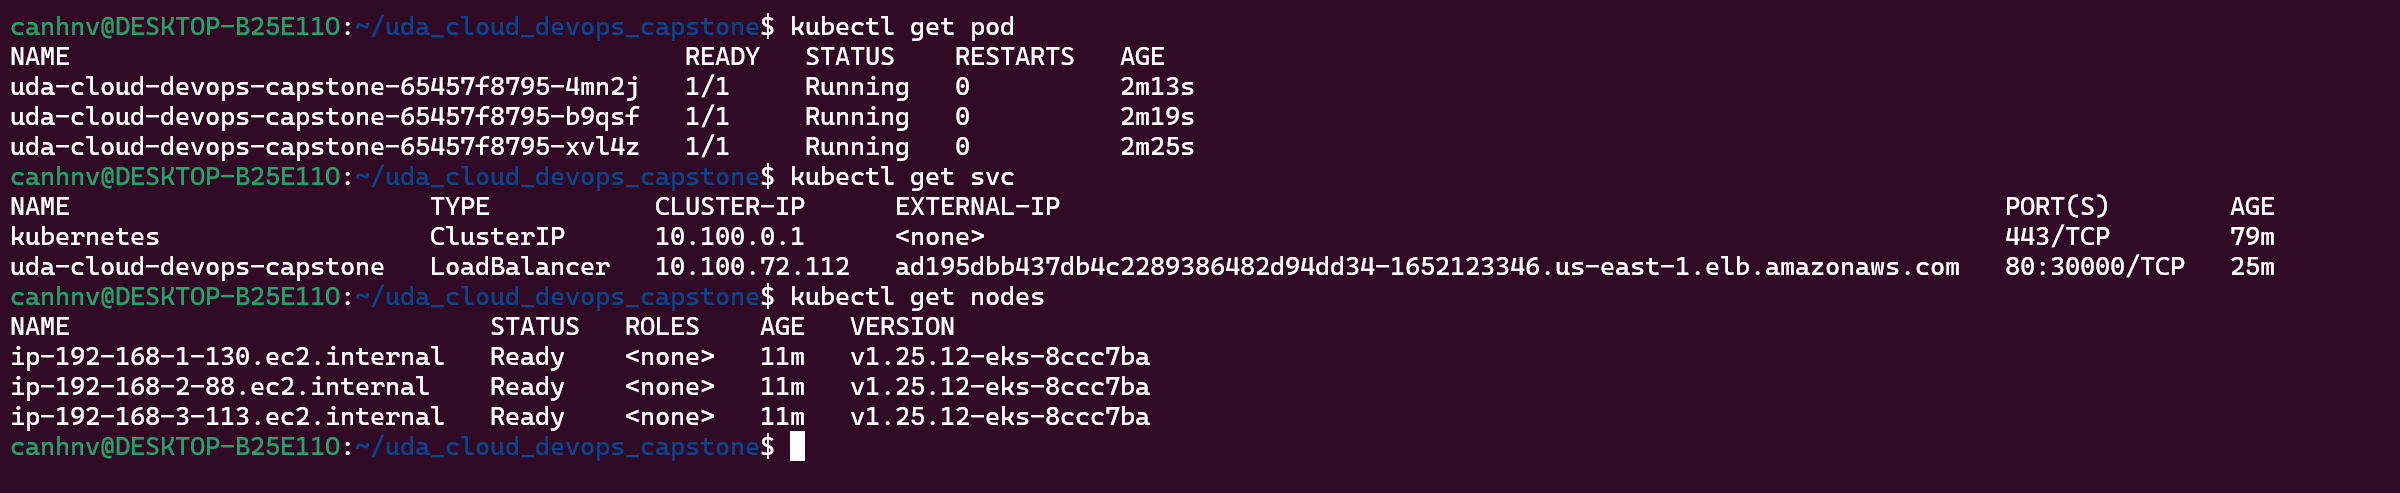
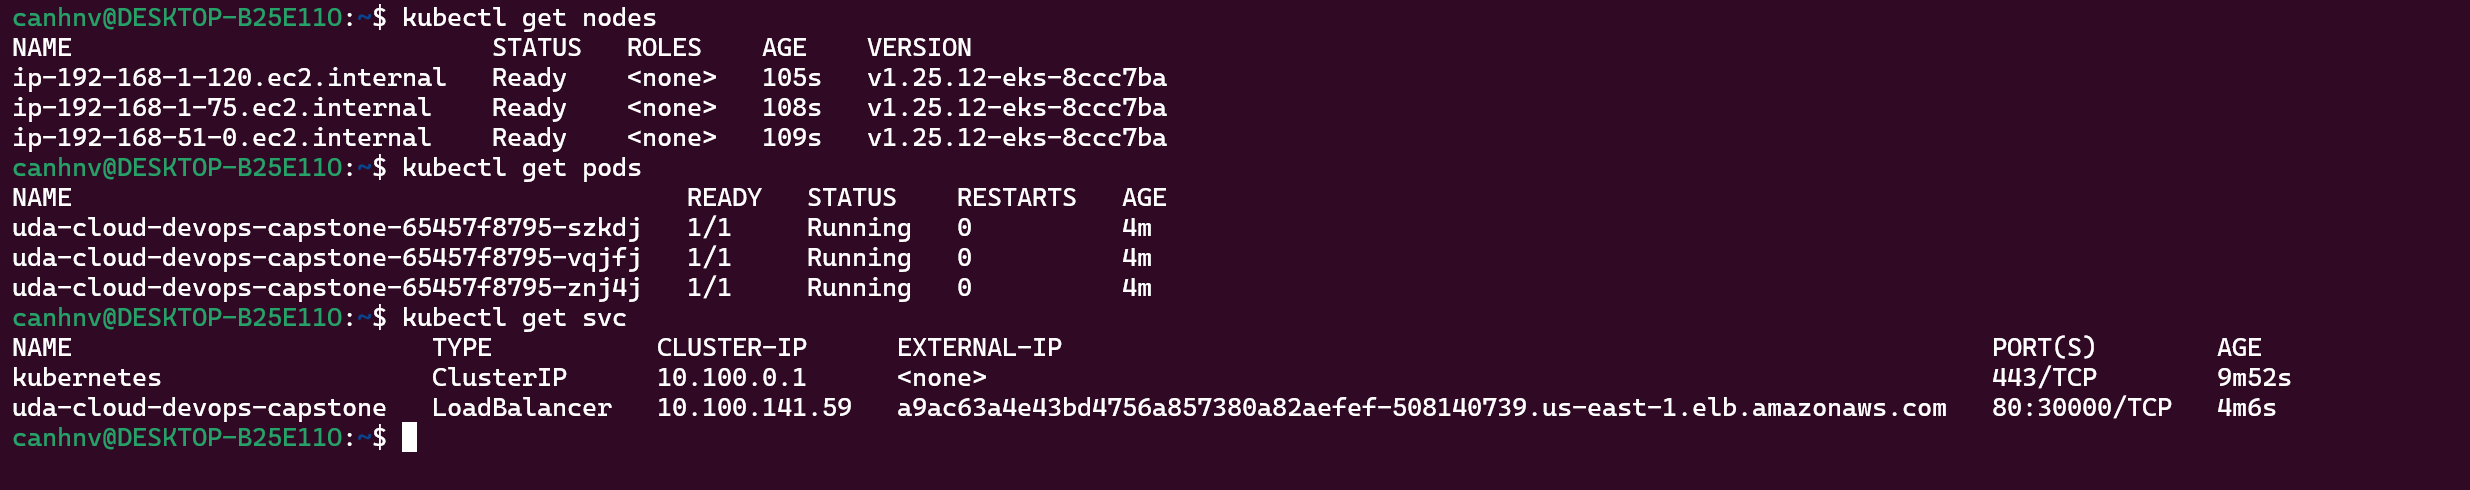
update

diff --git a/README.md b/README.md
@@ -2,4 +2,4 @@
 
 [![CircleCI](https://dl.circleci.com/status-badge/img/gh/canhbk/uda_cloud_devops_capstone/tree/main.svg?style=svg)](https://dl.circleci.com/status-badge/redirect/gh/canhbk/uda_cloud_devops_capstone/tree/main)
 
-- URL application: http://ad195dbb437db4c2289386482d94dd34-1652123346.us-east-1.elb.amazonaws.com/
+- URL application: http://a9ac63a4e43bd4756a857380a82aefef-508140739.us-east-1.elb.amazonaws.com/
